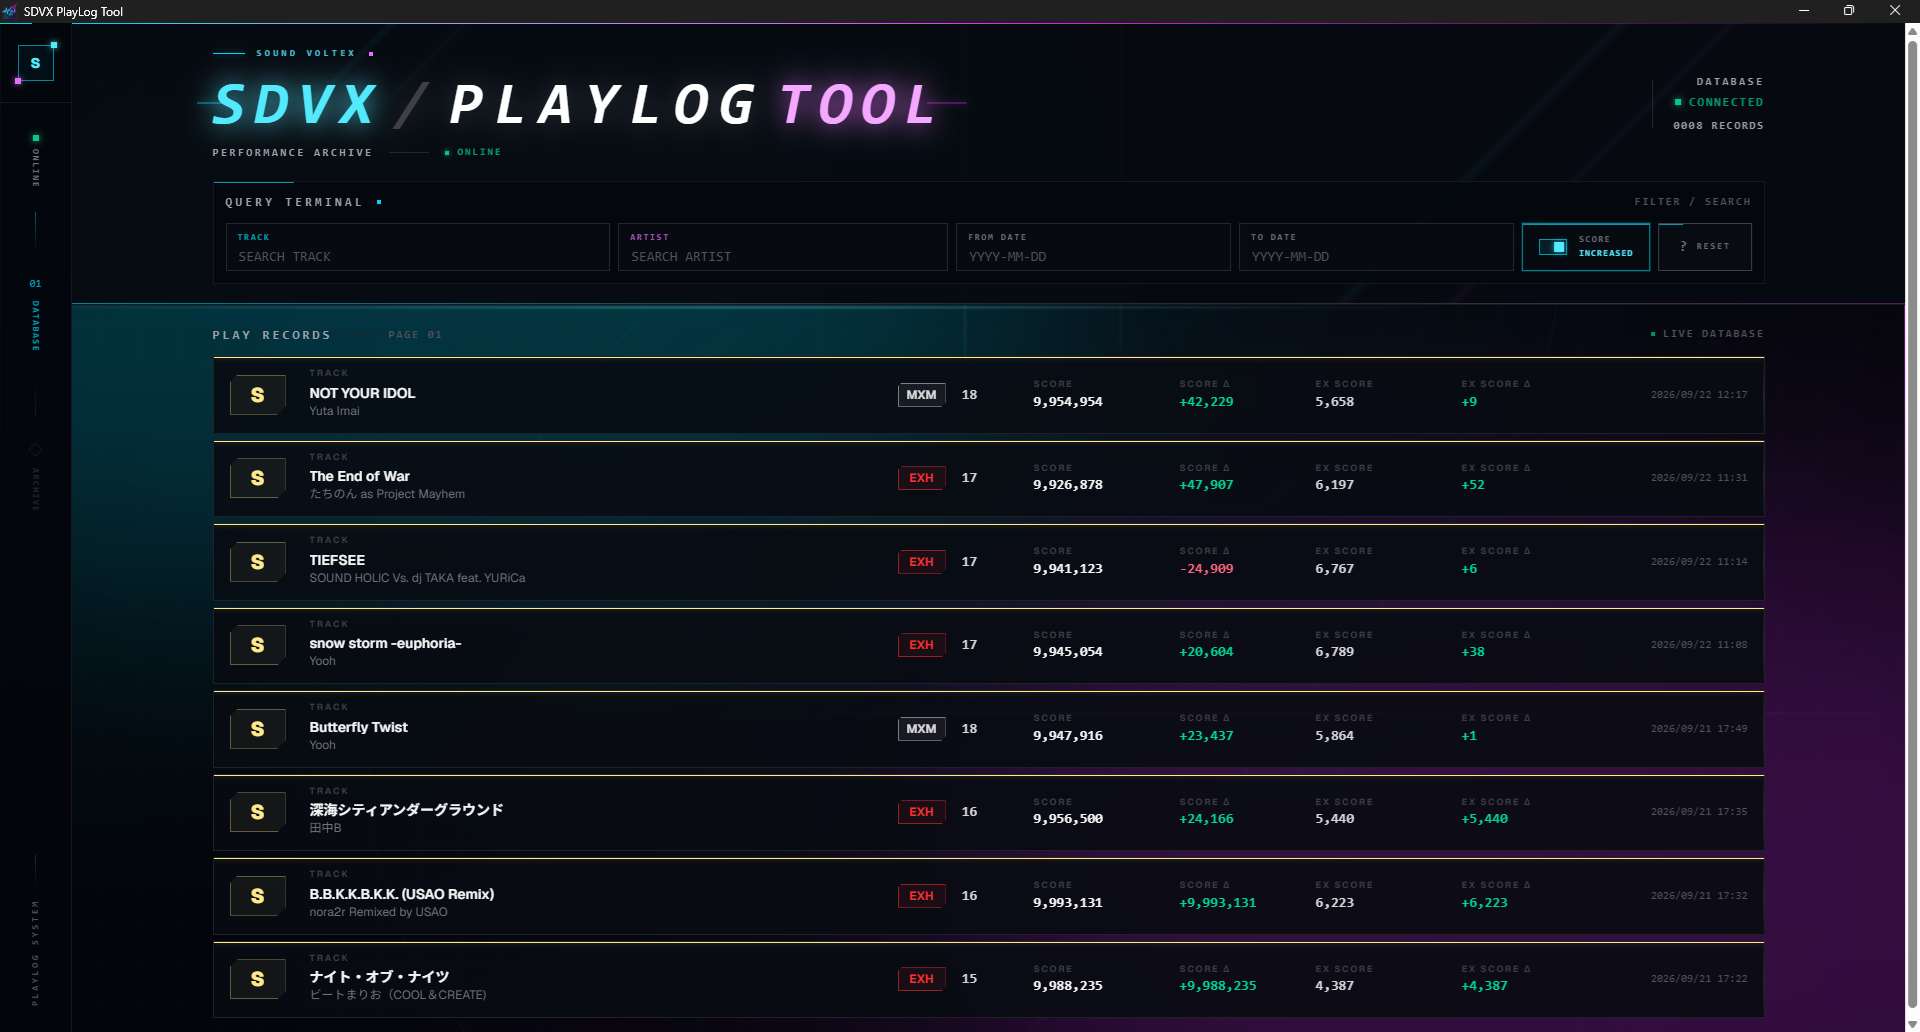
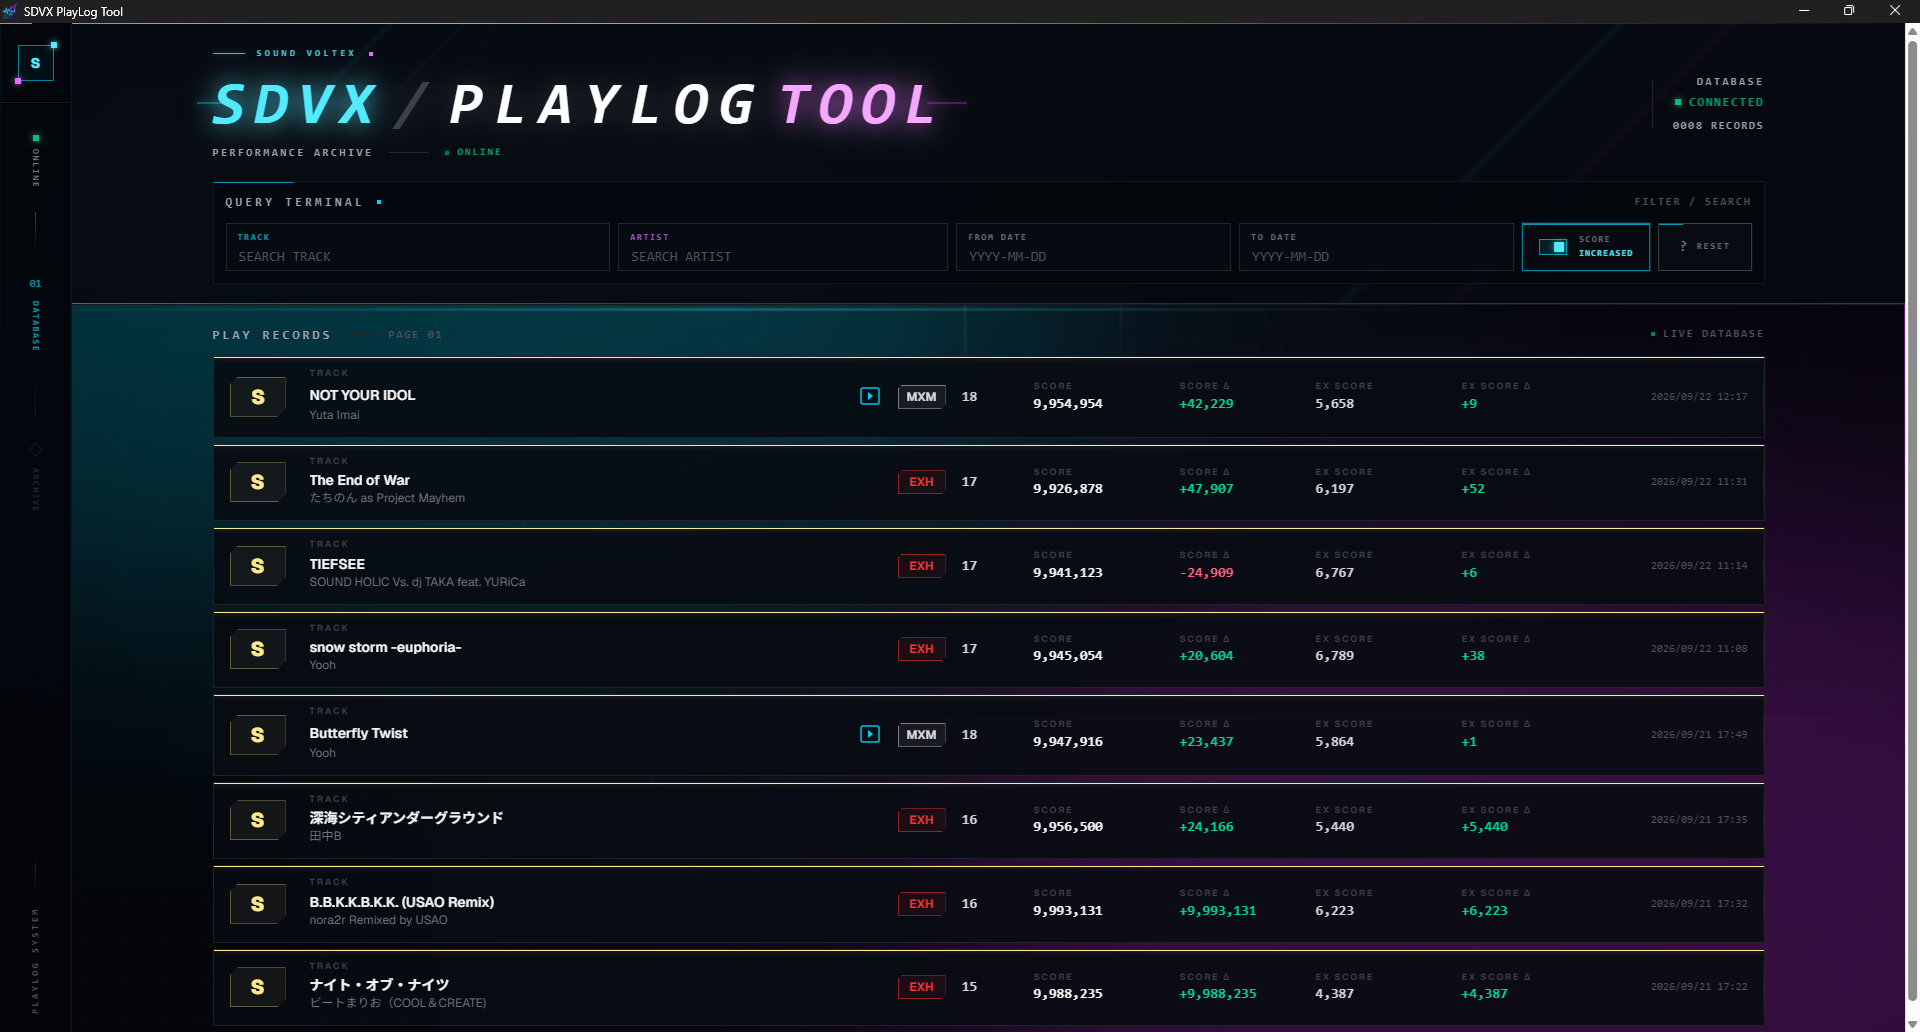
動画保存されている場合にアイコン表示する

diff --git a/ui/src/vite-env.d.ts b/ui/src/vite-env.d.ts
@@ -1,83 +1,73 @@
 /// <reference types="vite/client" />
 
-interface PlayLogRow {
-  play_id: string
-  played_at: string
-  song_name: string | null
-  artist: string | null
-  difficulty: string | null
-  level: number | null
-  score: number | null
-  score_delta: number | null
-  ex_score: number | null
-  ex_score_delta: number | null
-}
+import type {
+  PlayLogListResult,
+} from './types/playLog'
 
-interface PlayLogListResult {
-  rows: PlayLogRow[]
-  total: number
-}
+declare global {
+  interface Window {
+    api: {
+      getPlayLogs: (options?: {
+        limit?: number
+        offset?: number
+        startDate?: string | null
+        endDate?: string | null
+        songName?: string | null
+        artist?: string | null
+        scoreImproved?: boolean
+      }) => Promise<PlayLogListResult>
 
-interface Window {
-  api: {
-    getPlayLogs: (options?: {
-      limit?: number
-      offset?: number
-      startDate?: string | null
-      endDate?: string | null
-      songName?: string | null
-      artist?: string | null
-      scoreImproved?: boolean
-    }) => Promise<PlayLogListResult>
+      getPlayMedia: (playId: string) => Promise<{
+        resultImage: string | null
+        replayVideo: string | null
+      }>
 
-    getPlayMedia: (playId: string) => Promise<{
-      resultImage: string | null
-      replayVideo: string | null
-    }>
+      trashPlayMedia: (
+        playId: string,
+        mediaType: 'result' | 'replay',
+      ) => Promise<{
+        trashed: boolean
+        reason?: string
+      }>
 
-    trashPlayMedia: (
-      playId: string,
-      mediaType: 'result' | 'replay',
-    ) => Promise<{
-      trashed: boolean
-      reason?: string
-    }>
+      updatePlayLog: (
+        playId: string,
+        values: {
+          song_name: string | null
+          artist: string | null
+          difficulty: string | null
+          level: number | null
+          score: number | null
+          score_delta: number | null
+          ex_score: number | null
+          ex_score_delta: number | null
+        },
+      ) => Promise<{
+        updated: boolean
+      }>
 
-    updatePlayLog: (
-      playId: string,
-      values: {
-        song_name: string | null
-        artist: string | null
-        difficulty: string | null
-        level: number | null
-        score: number | null
-        score_delta: number | null
-        ex_score: number | null
-        ex_score_delta: number | null
-      },
-    ) => Promise<{
-      updated: boolean
-    }>
+      deletePlayRecord: (
+        playId: string,
+      ) => Promise<{
+        deleted: boolean
+        reason?: string
+      }>
 
-    deletePlayRecord: (
-      playId: string,
-    ) => Promise<{
-      deleted: boolean
-      reason?: string
-    }>
+      openExternal: (
+        url: string,
+      ) => Promise<{
+        opened: boolean
+        reason?: string
+      }>
 
-    openExternal: (
-      url: string,
-    ) => Promise<{
-      opened: boolean
-      reason?: string
-    }>
-
-    openPlayMediaFolder: (
-      playId: string,
-    ) => Promise<{
-      opened: boolean
-      reason?: string
-    }>
+      openPlayMediaFolder: (
+        playId: string,
+      ) => Promise<{
+        opened: boolean
+        reason?: string
+      }>
+    }
   }
 }
+
+export {}

diff --git a/ui/src/components/playlog/ScoreCard.tsx b/ui/src/components/playlog/ScoreCard.tsx
@@ -58,11 +58,39 @@ export function ScoreCard({
           TRACK
         </div>
 
-        <div
-          className="min-h-5 truncate text-sm font-semibold text-zinc-100"
-          title={row.song_name ?? ''}
-        >
-          {row.song_name ?? '\u00A0'}
+        <div className="flex min-w-0 items-center gap-2">
+          <div
+            className="min-w-0 flex-1 truncate text-sm font-semibold text-zinc-100"
+            title={row.song_name ?? ''}
+          >
+            {row.song_name ?? '\u00A0'}
+          </div>
+
+          {row.has_replay_video && (
+            <span
+              className="flex h-6 w-6 shrink-0 translate-y-px items-center justify-center text-cyan-400"
+              title="リプレイ動画保存済み"
+              aria-label="リプレイ動画保存済み"
+            >
+              <svg
+                viewBox="0 0 24 24"
+                fill="none"
+                stroke="currentColor"
+                strokeWidth="1.4"
+                strokeLinecap="round"
+                strokeLinejoin="round"
+                className="h-6 w-6"
+                aria-hidden="true"
+              >
+                <rect x="3" y="4" width="18" height="16" rx="2" />
+                <path
+                  d="m10 8 5 4-5 4z"
+                  fill="currentColor"
+                  stroke="none"
+                />
+              </svg>
+            </span>
+          )}
         </div>
 
         <div

diff --git a/ui/src/types/playLog.ts b/ui/src/types/playLog.ts
@@ -9,4 +9,10 @@ export type PlayLogRow = {
   score_delta: number | null
   ex_score: number | null
   ex_score_delta: number | null
+  has_replay_video: boolean
+}
+
+export type PlayLogListResult = {
+  rows: PlayLogRow[]
+  total: number
 }
